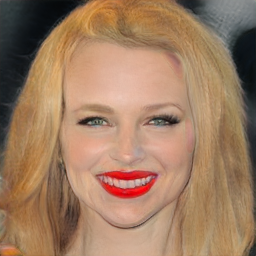
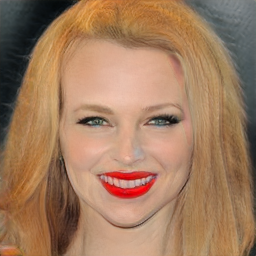
FIX: Oh-LoRA image generation

diff --git a/2025_04_08_OhLoRA/final_product/run.py b/2025_04_08_OhLoRA/final_product/run.py
@@ -244,7 +244,8 @@ def save_memory_list(memory_list):
 
 # Oh-LoRA (오로라) 의 답변에 따라 눈을 뜬 정도 (eyes), 입을 벌린 정도 (mouth), 고개 돌림 (pose) 점수 산출
 # Create Date : 2025.04.23
-# Last Update Date : -
+# Last Update Date : 2025.04.24
+# - 눈을 크게 뜨고 입을 벌리는 감탄사 조건 일부 수정
 
 # Arguments :
 # - llm_answer_cleaned (str) : 오로라👱♀ 가 생성한 원본 답변에서 text clean 을 실시한 이후의 답변
@@ -257,10 +258,15 @@ def save_memory_list(memory_list):
 def decide_property_scores(llm_answer_cleaned):
 
     if (('오!' in llm_answer_cleaned) or ('와!' in llm_answer_cleaned) or
-        ('와우' in llm_answer_cleaned) or (llm_answer_cleaned.startswith('오 '))):
+        ('와우' in llm_answer_cleaned) or (llm_answer_cleaned.strip().startswith('오 '))):
 
         eyes_score = 1.6
         mouth_score_bonus = 1.2
+
+    elif ('아!' in llm_answer_cleaned) or (llm_answer_cleaned.strip().startswith('아 ')):
+        eyes_score = 0.8
+        mouth_score_bonus = 0.6
+
     else:
         eyes_score = -1.2
         mouth_score_bonus = 0.0
@@ -284,7 +290,8 @@ def decide_property_scores(llm_answer_cleaned):
 
 # Oh-LoRA (오로라) 이미지 생성
 # Create Date : 2025.04.23
-# Last Update Date : -
+# Last Update Date : 2025.04.24
+# - noise 강도 수정 (0.3 -> 0.15)
 
 # Arguments :
 # - stylegan_generator (nn.Module) : StyleGAN-FineTune-v3 Generator (Decoder)
@@ -312,7 +319,7 @@ def generate_ohlora_image(stylegan_generator, eyes_score, mouth_score, pose_scor
 
     with torch.no_grad():
         z = z_vector_torch.to(torch.float32)
-        z_noised = z + 0.3 * torch.randn_like(z)
+        z_noised = z + 0.15 * torch.randn_like(z)
 
         generated_image = stylegan_generator(z=z_noised.cuda(), label=label_torch.cuda())['image']
         generated_image = generated_image.detach().cpu()
